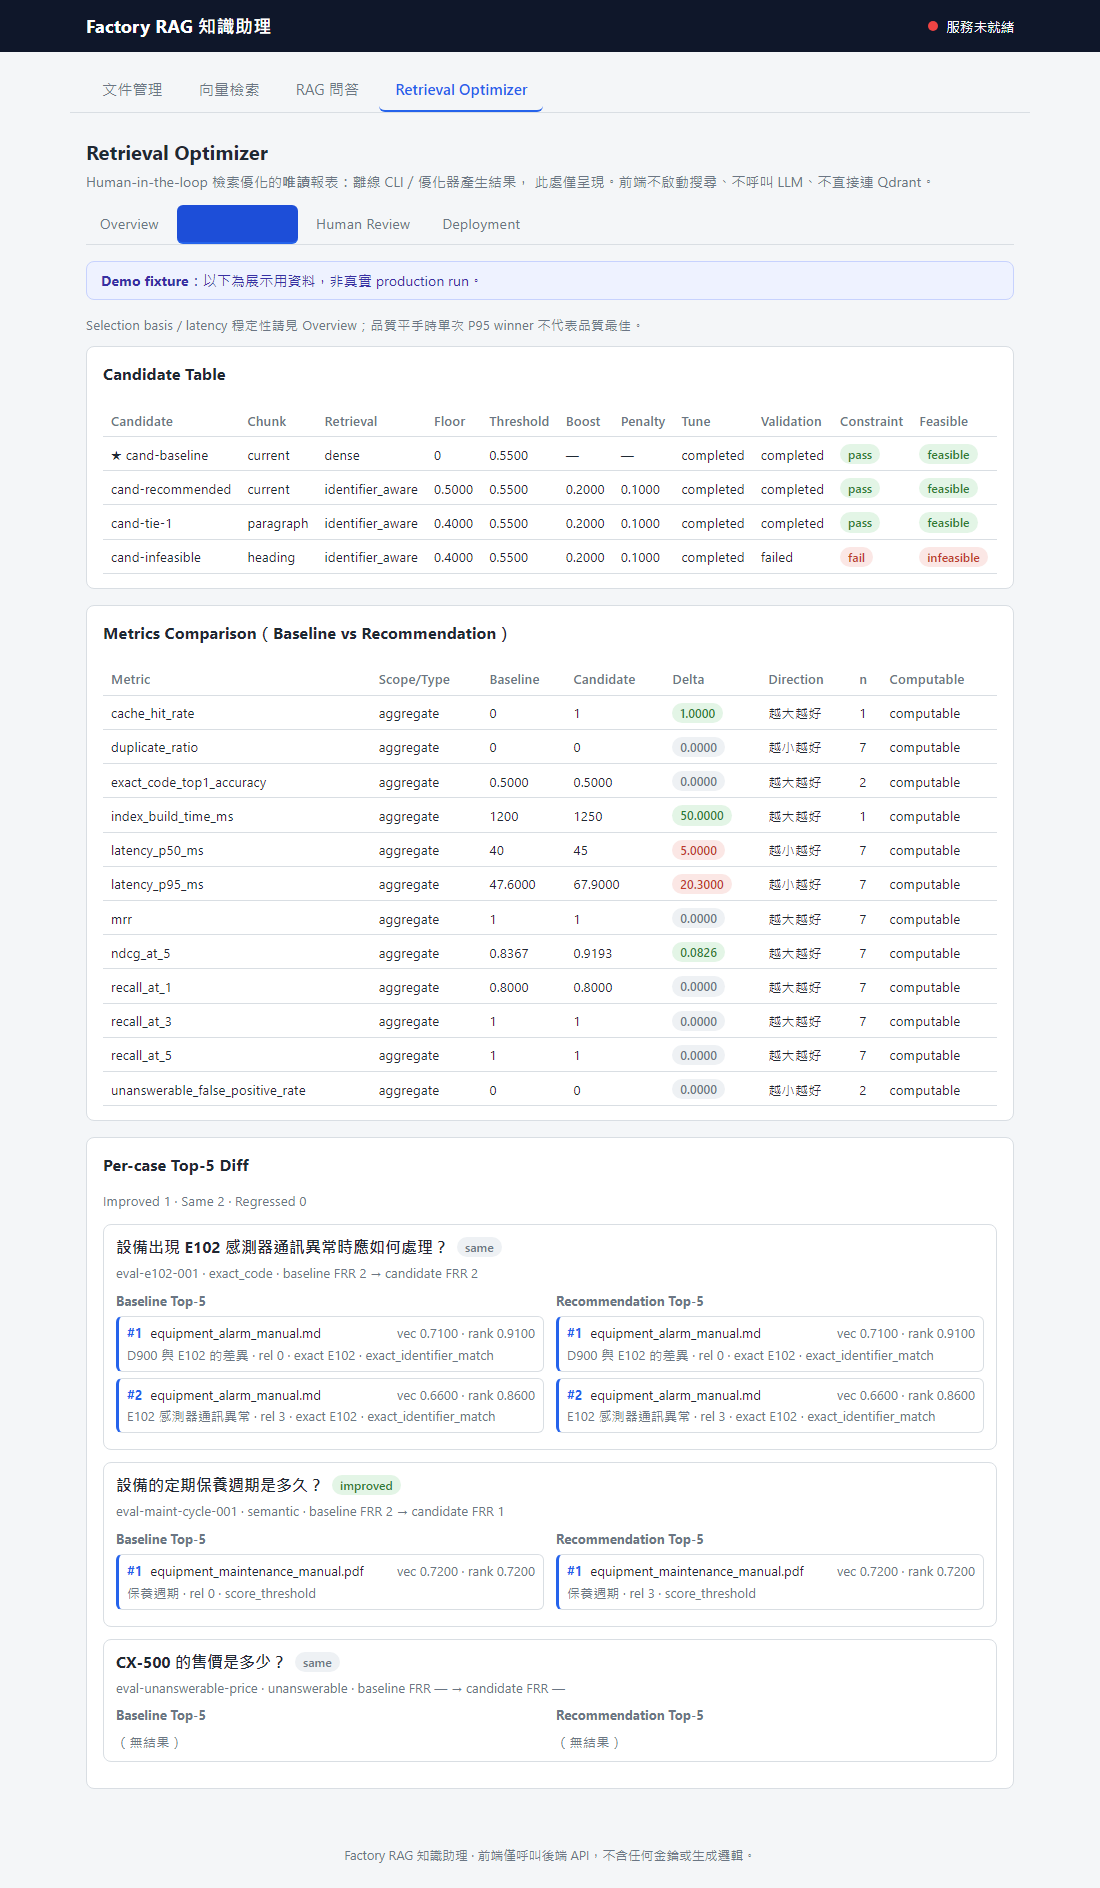
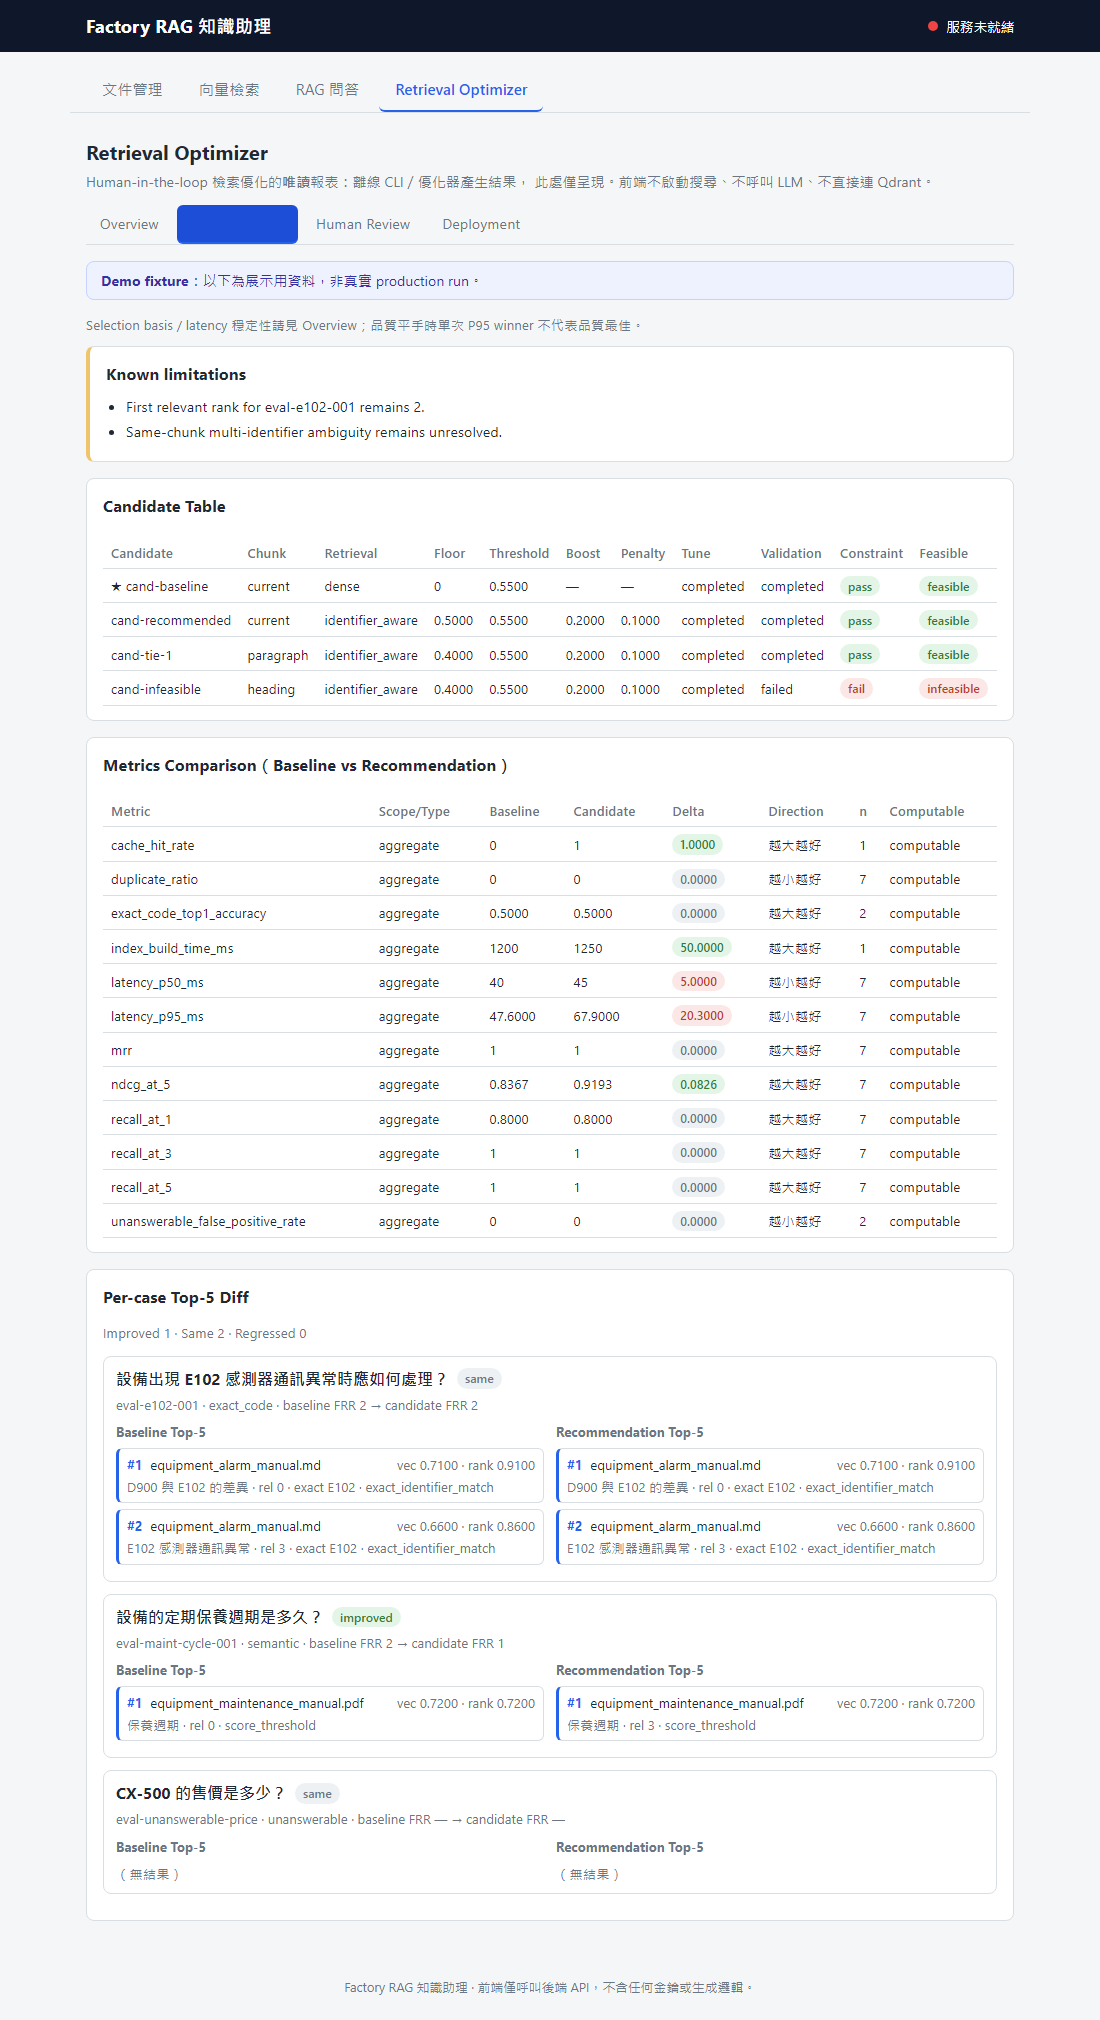
fix: polish v1.1 release reporting

diff --git a/app/static/optimizer.js b/app/static/optimizer.js
@@ -62,6 +62,25 @@
       "以下為展示用資料，非真實 production run。</div>";
   };
 
+  // Known limitations 區塊：通用地渲染 Search Detail API 的 outcome.known_limitations
+  // （§一）。不針對任何特定 case 硬編碼；缺失／空陣列時顯示 Empty State，不 crash；
+  // 文字完整可見（非 tooltip），並以 role="note" 標示語意。
+  UI.renderKnownLimitations = function (limitations) {
+    const items = (Array.isArray(limitations) ? limitations : [])
+      .filter(function (x) { return x != null && String(x).trim() !== ""; })
+      .map(function (x) { return String(x); });
+    let body;
+    if (!items.length) {
+      body = '<p class="opt-muted" data-testid="known-limitations-empty">' +
+        "此 search 未記錄任何 known limitation。</p>";
+    } else {
+      body = '<ul class="opt-limitations-list">' +
+        items.map(function (x) { return "<li>" + esc(x) + "</li>"; }).join("") + "</ul>";
+    }
+    return '<div class="opt-card opt-limitations" role="note" aria-label="Known limitations"' +
+      ' data-testid="known-limitations"><h3>Known limitations</h3>' + body + "</div>";
+  };
+
   UI.renderOverview = function (data) {
     const s = data.search || {};
     const r = data.review || {};
@@ -471,17 +490,23 @@
     }
     const sid = searches[0].search_id;
     state.searchId = sid;
-    const [cands, cmp] = await Promise.all([
+    const [detail, cands, cmp] = await Promise.all([
+      fetchJson("/api/optimizer/searches/" + encodeURIComponent(sid)),
       fetchJson("/api/optimizer/searches/" + encodeURIComponent(sid) + "/candidates"),
       fetchJson("/api/optimizer/searches/" + encodeURIComponent(sid) + "/comparison"),
     ]);
     const cmpBody = (cmp.body && cmp.body.comparison) || null;
+    // Known limitations 取自 Search Detail API 的 outcome（唯讀，不在前端重述實驗結論）。
+    const searchDetail = (detail.body && detail.body.search) || null;
+    const knownLimitations = (searchDetail && searchDetail.outcome &&
+      searchDetail.outcome.known_limitations) || [];
     let html = "";
     html += UI.demoBanner(state.overview && state.overview.is_demo_fixture);
     if (cmpBody && cmpBody.baseline_comparison_status) {
       html += '<div class="opt-note opt-muted">Selection basis / latency 穩定性請見 Overview；' +
         "品質平手時單次 P95 winner 不代表品質最佳。</div>";
     }
+    html += UI.renderKnownLimitations(knownLimitations);
     html += '<div class="opt-card"><h3>Candidate Table</h3>' +
       UI.renderCandidateTable((cands.body && cands.body.candidates) || []) + "</div>";
     html += '<div class="opt-card"><h3>Metrics Comparison（Baseline vs Recommendation）</h3>' +

diff --git a/tests/e2e/optimizer.spec.ts b/tests/e2e/optimizer.spec.ts
@@ -47,6 +47,43 @@ test.describe("Retrieval Optimizer UI", () => {
     // C01 誠實：first relevant rank 保持 2 → verdict same
     await expect(sp.getByText(/baseline FRR 2 → candidate FRR 2/)).toBeVisible();
     await expect(sp.locator(".opt-case-head").getByText("same")).toBeVisible();
+    // Known limitations 由 Search Detail API 通用渲染，完整句子可見（非 tooltip）。
+    const note = sp.locator('[data-testid="known-limitations"]');
+    await expect(note).toHaveAttribute("role", "note");
+    await expect(note.getByRole("heading", { name: "Known limitations" })).toBeVisible();
+    await expect(note.getByText("Same-chunk multi-identifier ambiguity remains unresolved.")).toBeVisible();
+    await expect(note.getByText("First relevant rank for eval-e102-001 remains 2.")).toBeVisible();
+  });
+
+  // 16.7 Known limitations empty state：缺失 / 空陣列不得 crash，仍顯示 role=note 區塊與 Empty State
+  test("16.7 known limitations: full sentence on search page; empty/missing renders safe empty state", async ({ page }) => {
+    // (a) 正常情況：完整限制句在 Search 頁可見，且 C01 仍為 2 → 2 / same
+    await F.installRoutes(page);
+    await F.openOptimizer(page);
+    await page.click('.subtab[data-sub="search"]');
+    const sp = page.locator("#opt-subpanel-search");
+    await expect(
+      sp.getByText("Same-chunk multi-identifier ambiguity remains unresolved.")
+    ).toBeVisible();
+    await expect(sp.getByText(/baseline FRR 2 → candidate FRR 2/)).toBeVisible();
+    await expect(sp.locator(".opt-case-head").getByText("same")).toBeVisible();
+
+    // (b) 純函式契約：空陣列 / undefined 皆回傳含 role="note" 的安全 Empty State，不丟例外
+    const results = await page.evaluate(() => {
+      const UI = (window as any).OptimizerUI;
+      return {
+        empty: UI.renderKnownLimitations([]),
+        missing: UI.renderKnownLimitations(undefined),
+        nulls: UI.renderKnownLimitations([null, "", "  "]),
+        populated: UI.renderKnownLimitations(["Same-chunk multi-identifier ambiguity remains unresolved."]),
+      };
+    });
+    expect(results.empty).toContain('role="note"');
+    expect(results.empty).toContain("known-limitations-empty");
+    expect(results.missing).toContain("known-limitations-empty");
+    expect(results.nulls).toContain("known-limitations-empty");
+    expect(results.populated).toContain("Same-chunk multi-identifier ambiguity remains unresolved.");
+    expect(results.populated).not.toContain("known-limitations-empty");
   });
 
   // 16.4 Human review

diff --git a/tests/e2e/fixtures.ts b/tests/e2e/fixtures.ts
@@ -70,6 +70,34 @@ export function candidates() {
   };
 }
 
+export function searchDetail(over: any = {}) {
+  // 對應 /api/optimizer/searches/{id}（read-only detail）；outcome 內含 known_limitations，
+  // UI 由此通用渲染 Known limitations 區塊（§一），未在前端硬編碼實驗結論。
+  return {
+    configured: true, available: true, reason: null, found: true,
+    search: {
+      search_id: "search-demo", search_name: "DEMO optimizer search (fixture)",
+      status: "test_constraint_failed", dataset_version: "v1.1-coverage-0002",
+      recommendation_locked: true, apply_eligible: false,
+      test_constraint_status: "failed", baseline_comparison_status: "improved",
+      outcome: {
+        test_constraint_status: "failed",
+        baseline_comparison_status: "improved",
+        recommendation_apply_eligible: false,
+        apply_ineligible_reasons: [
+          "small_validation_sample", "quality_metrics_tied",
+          "selection_driven_by_single_run_latency", "test_constraint_failed", "demo_corpus_only",
+        ],
+        known_limitations: [
+          "First relevant rank for eval-e102-001 remains 2.",
+          "Same-chunk multi-identifier ambiguity remains unresolved.",
+        ],
+      },
+    },
+    ...over,
+  };
+}
+
 export function comparison() {
   return {
     configured: true, available: true, reason: null, found: true,
@@ -163,6 +191,9 @@ export async function installRoutes(page: Page, overrides: Record<string, any> =
     json(r, overrides.overview ?? demoOverview()));
   await page.route("**/api/optimizer/searches", (r) =>
     json(r, overrides.searches ?? searchesList()));
+  // Search detail（單一 id，無後續 path segment）——用 regex 避免與 /candidates、/comparison 混淆。
+  await page.route(/\/api\/optimizer\/searches\/[^/?#]+$/, (r) =>
+    json(r, overrides.searchDetail ?? searchDetail()));
   await page.route("**/api/optimizer/searches/*/candidates", (r) =>
     json(r, overrides.candidates ?? candidates()));
   await page.route("**/api/optimizer/searches/*/comparison", (r) =>

diff --git a/app/static/styles.css b/app/static/styles.css
@@ -244,6 +244,11 @@ td.empty { text-align: center; color: var(--muted); }
 .opt-reasons ul { margin: 6px 0 0; padding-left: 20px; }
 .opt-reasons li { font-size: 0.86rem; margin-bottom: 2px; }
 
+/* Known limitations：清楚標示、文字完整可見（非 tooltip）。 */
+.opt-limitations { border-left: 4px solid var(--warn-border); }
+.opt-limitations-list { margin: 6px 0 0; padding-left: 20px; }
+.opt-limitations-list li { font-size: 0.9rem; margin-bottom: 4px; }
+
 .badge {
   display: inline-block; padding: 1px 8px; border-radius: 999px;
   font-size: 0.76rem; font-weight: 600; white-space: nowrap;

diff --git a/README.md b/README.md
@@ -91,7 +91,14 @@ python -m scripts.seed_optimizer_ui_demo --output-dir evaluation/demo
 # 測試
 python -m pytest tests/unit -q                                   # 全部 unit
 python -m pytest tests/integration -q -m "not llm_integration"   # 非 LLM 整合（需 Qdrant）
-npm install && npx playwright install chromium && npx playwright test   # 前端 E2E
+```
+
+前端 E2E（可重現流程；`npm ci` 由 `package-lock.json` 鎖版，`test:e2e` 對應 `playwright test`）：
+
+```powershell
+npm ci
+npx playwright install chromium
+npm run test:e2e
 ```
 
 啟動 API 後把 seeder 產生的三個路徑設給環境變數，即可在 UI 的 **Retrieval Optimizer** Tab 展示：
@@ -263,13 +270,20 @@ flowchart TD
 # 1. 建立 .env（可先複製範本；未設定 LLM 時檢索仍可用）
 Copy-Item .env.example .env
 
-# 2. 建置並啟動 FastAPI + Qdrant
+# 2.（可選）驗證 compose 檔語法，且**不**輸出展開後的設定
+docker compose config --quiet
+
+# 3. 建置並啟動 FastAPI + Qdrant
 docker compose up --build -d
 docker compose ps
 
-# 3. 開啟前端
+# 4. 開啟前端
 #   http://localhost:8000/
 ```
+
+> **安全**：Avoid publishing the output of `docker compose config` when a local
+> `.env` contains secrets, because Compose may print interpolated values.
+> Use `docker compose config --quiet` for validation.（`--quiet` 只回傳 exit code，不印出任何展開內容。）
 
 - `GET /health` → 200
 - `GET /ready` → 依賴就緒檢查（設定 LLM 後 `llm_config=ok`；未設定時 `llm_config=error` 並回 503，屬**預期行為**）。
